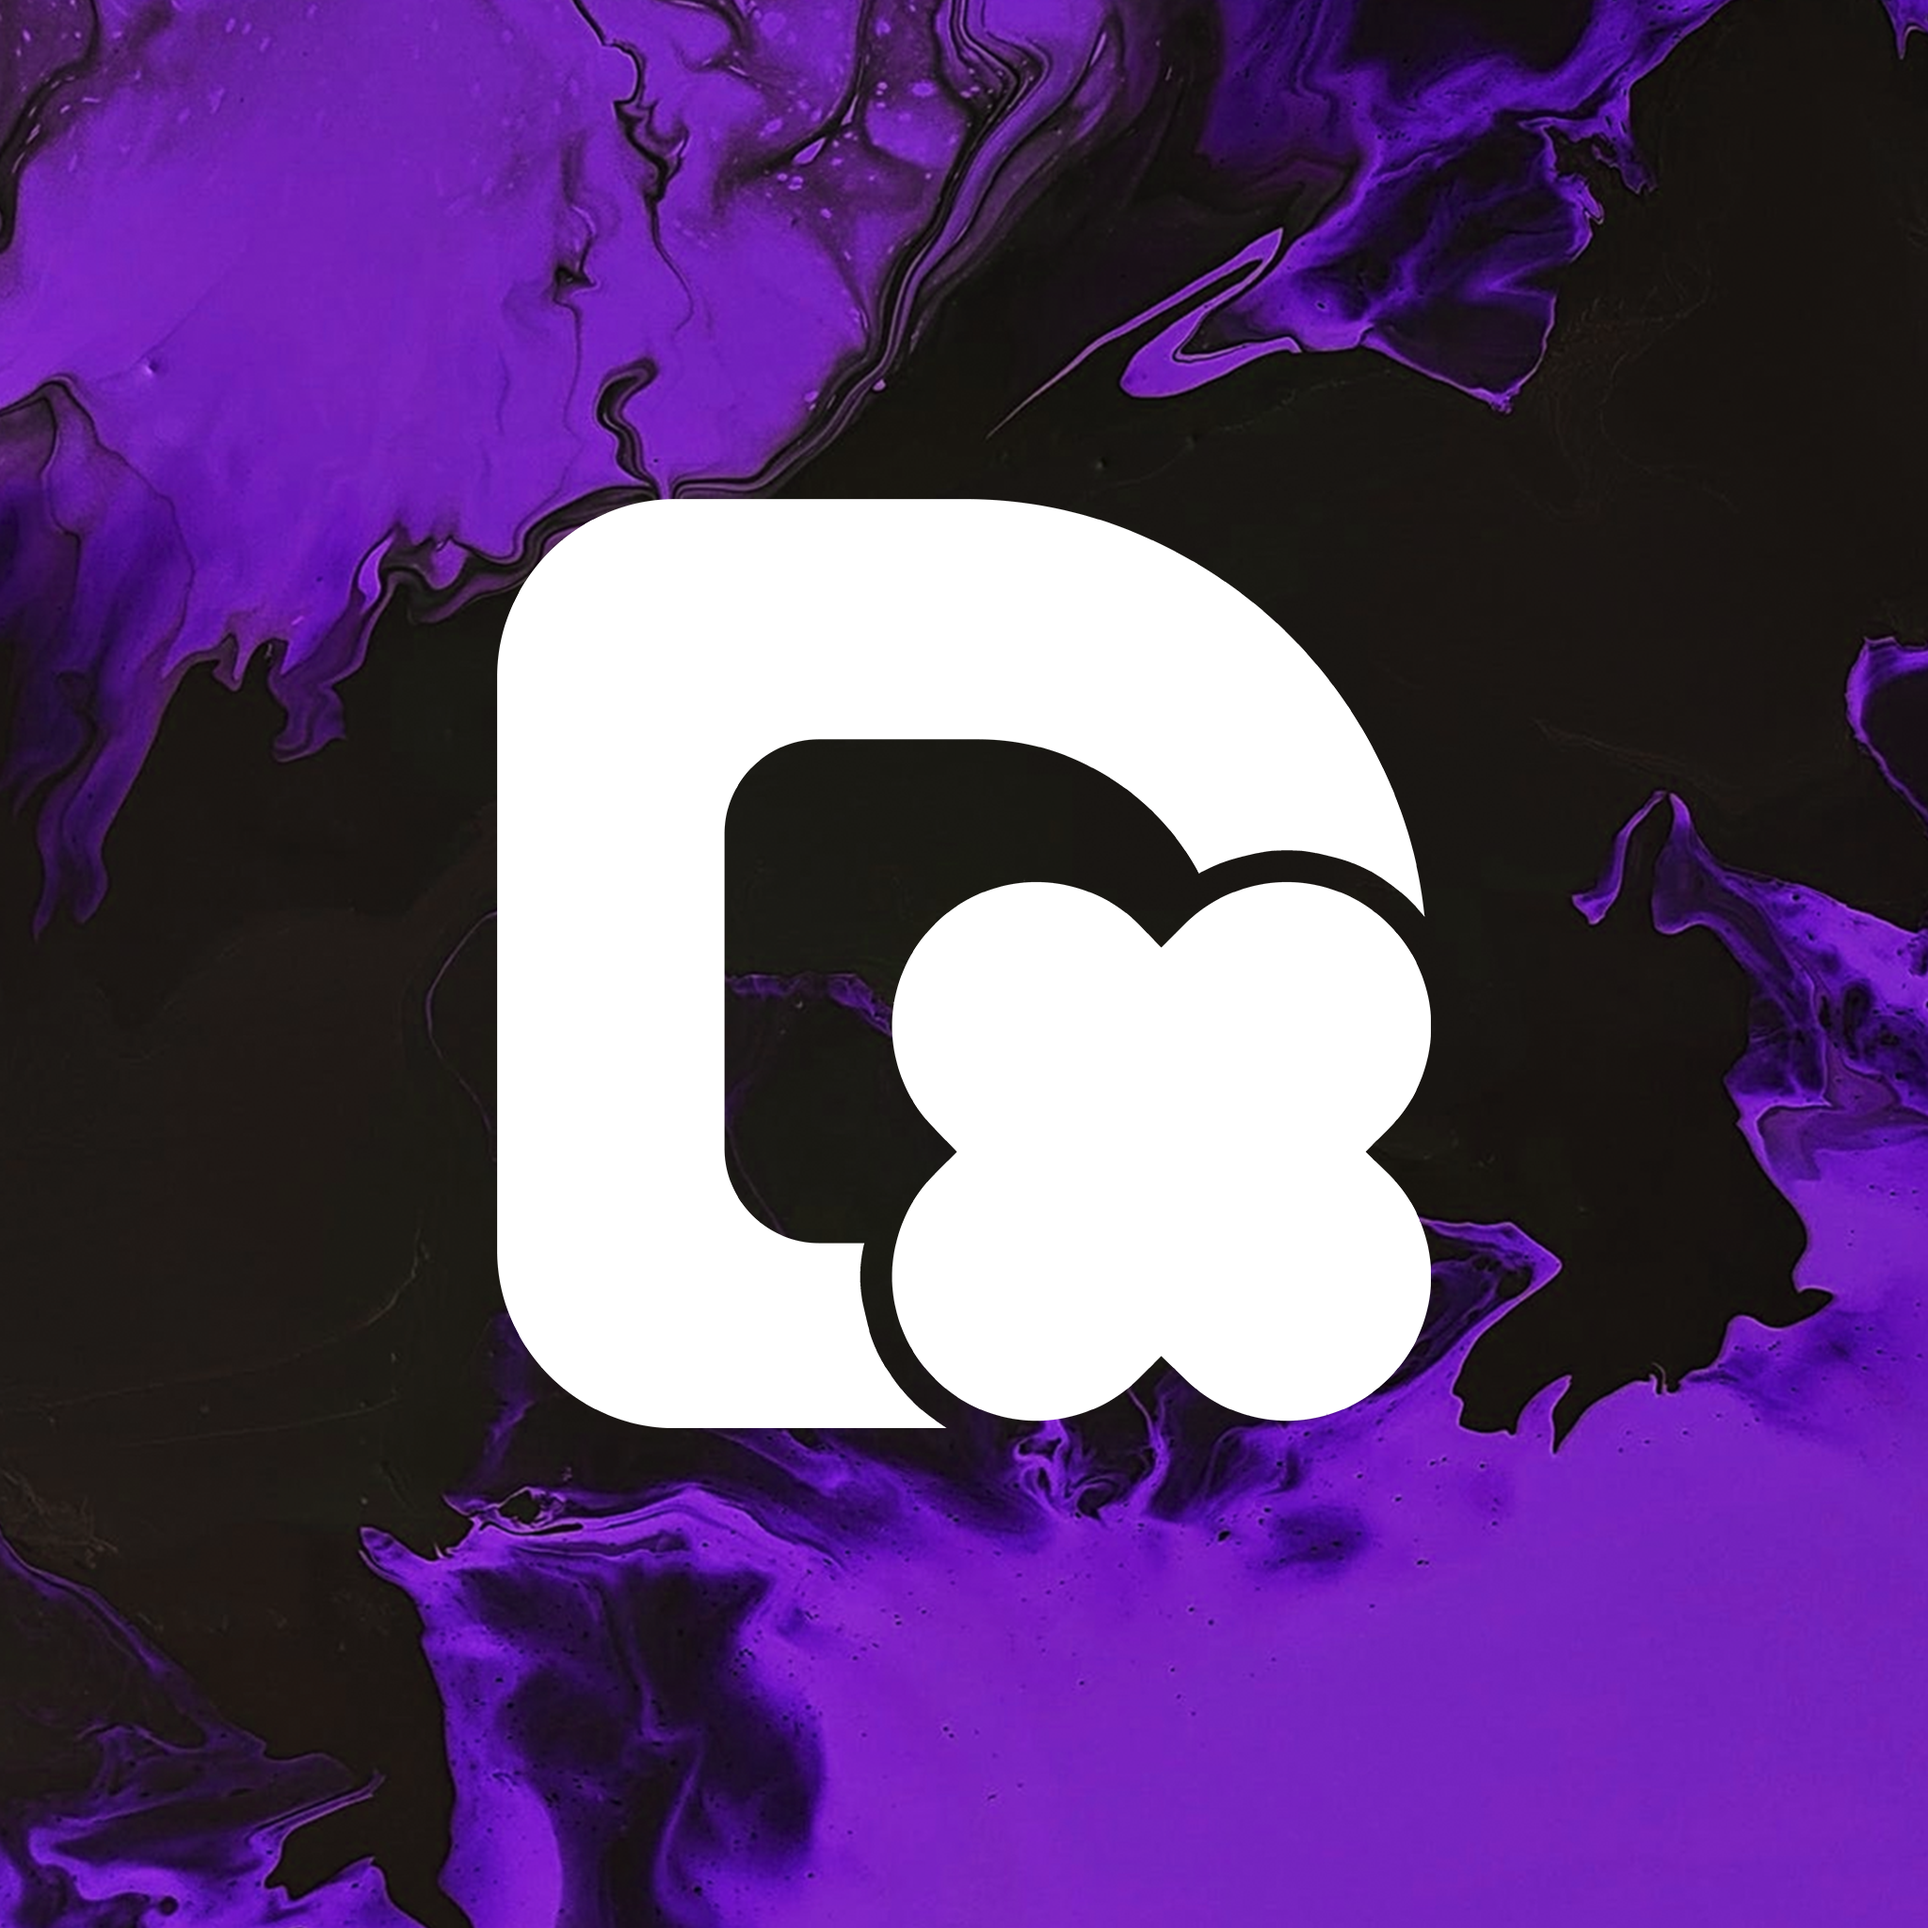
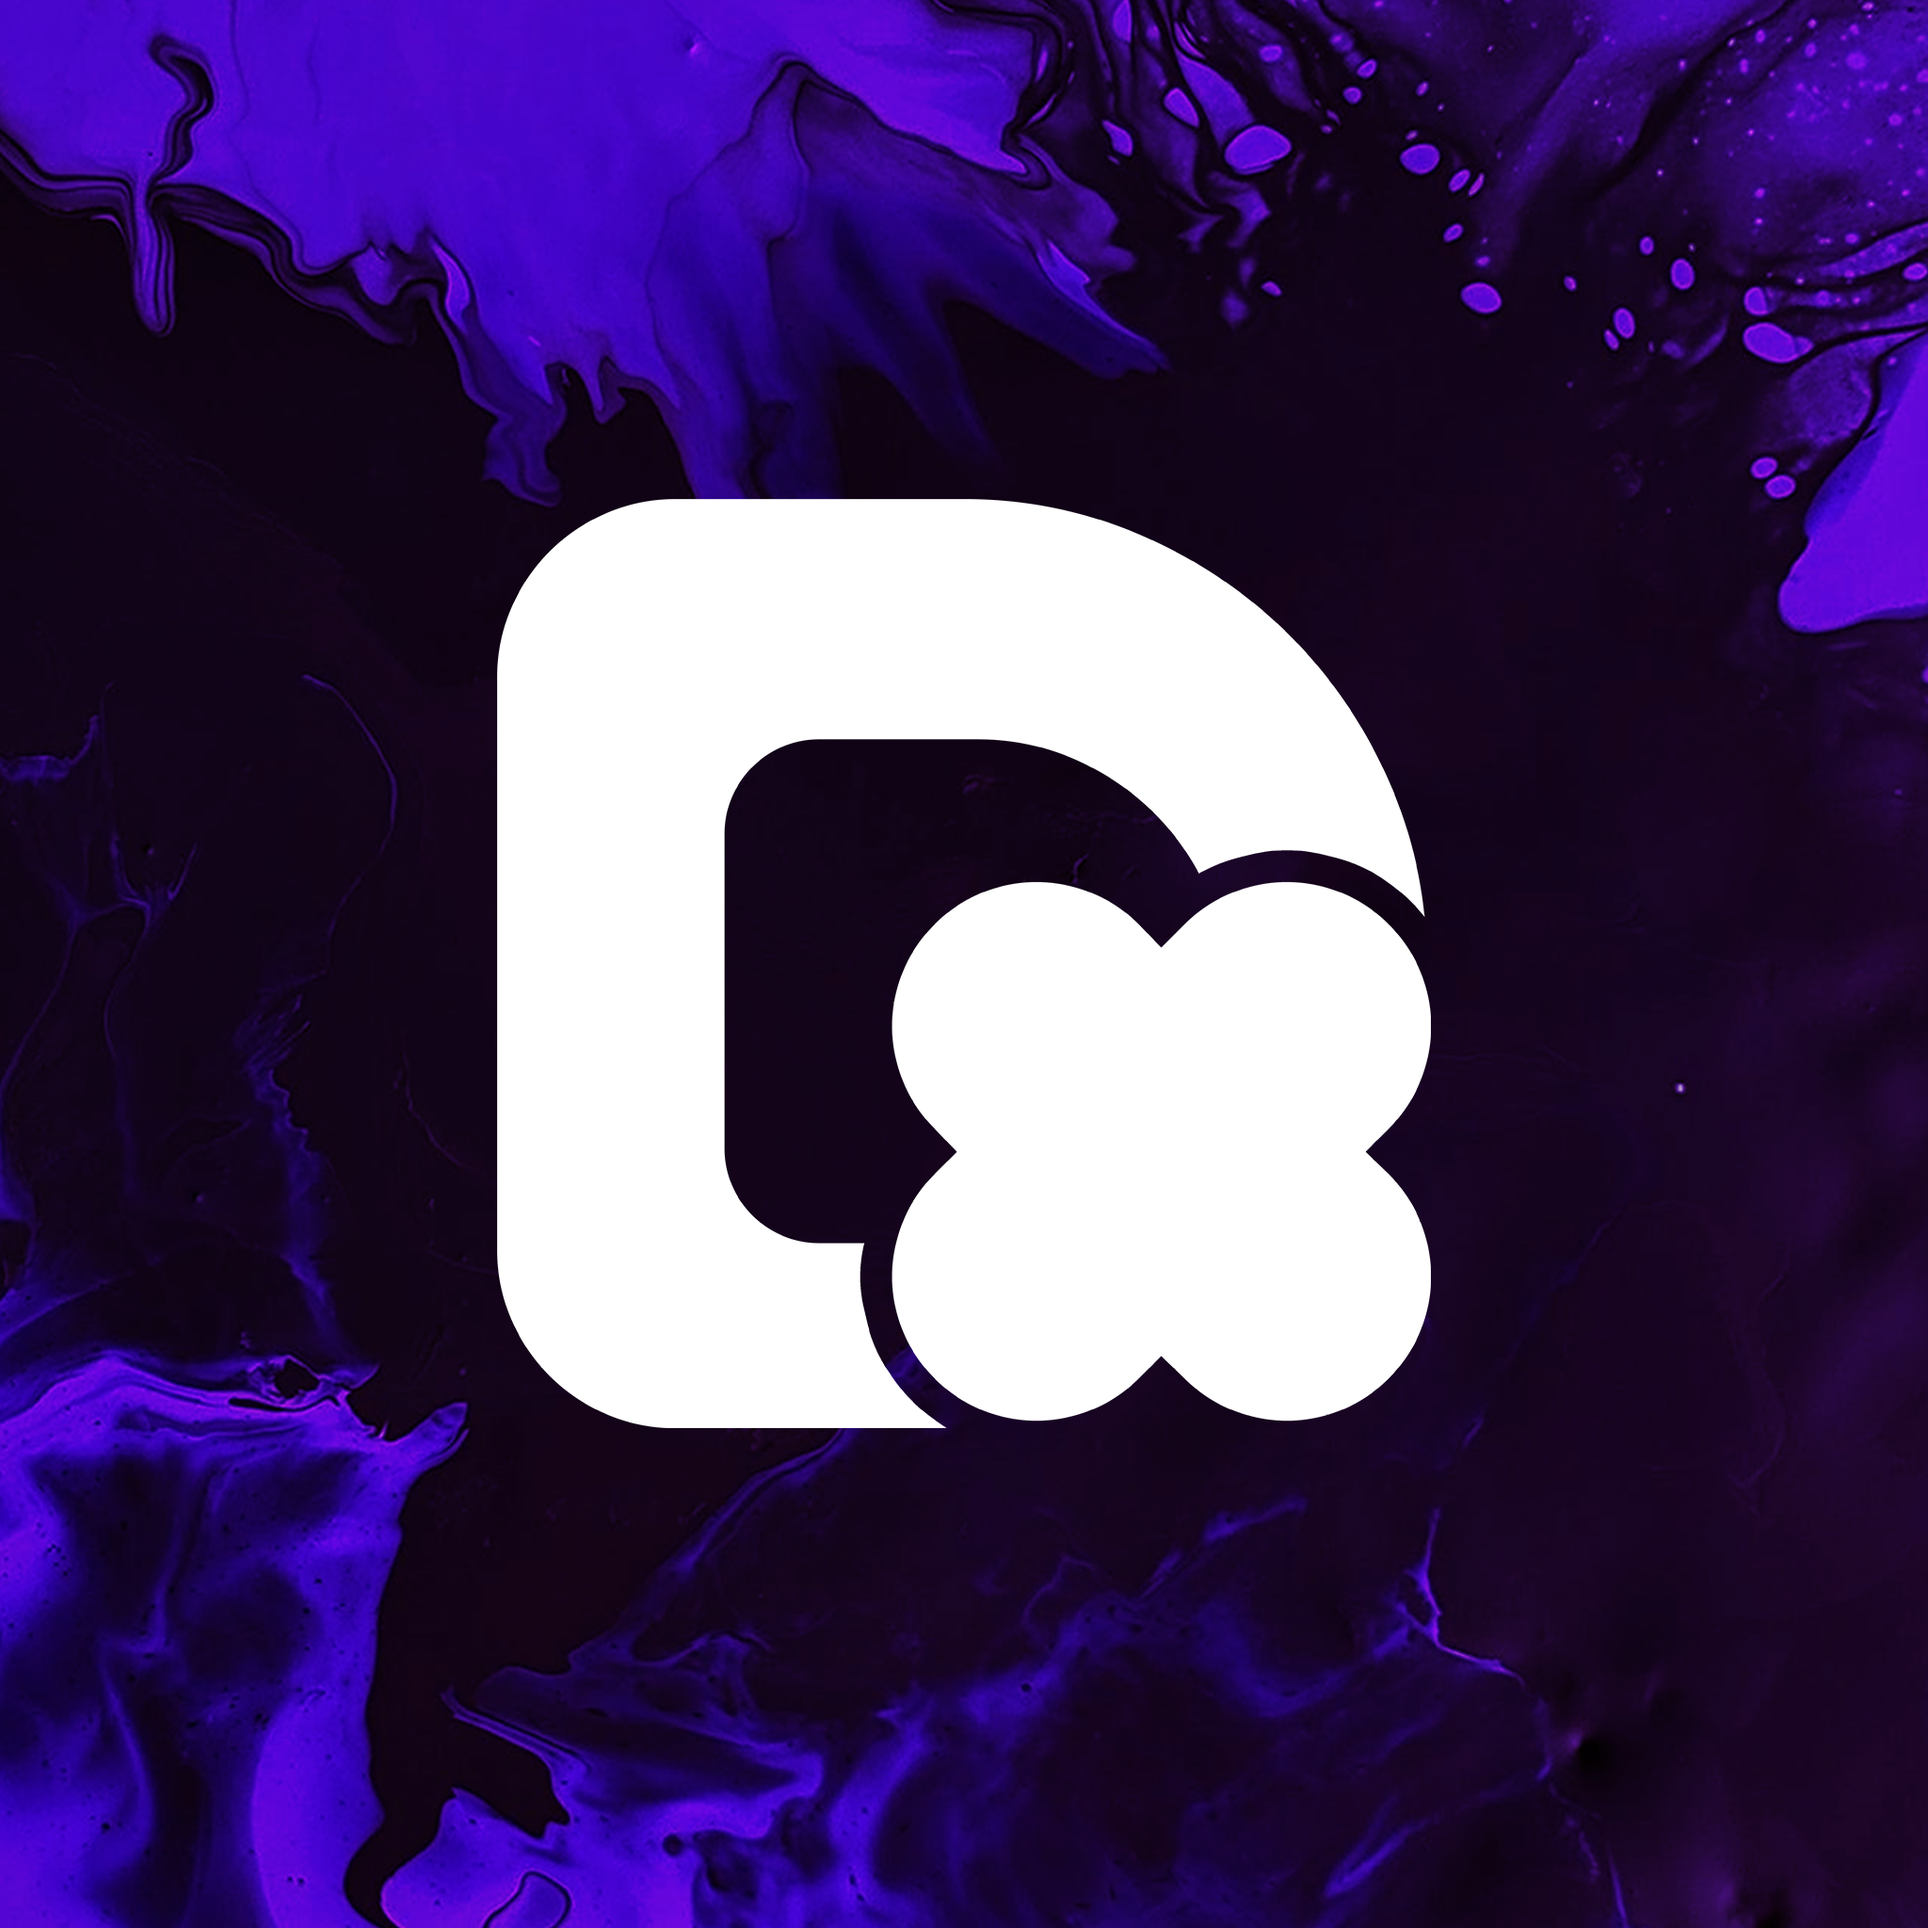
New brand color

diff --git a/index.html b/index.html
@@ -74,8 +74,8 @@
 				</div>
 			</div>
 			<div class="white-section has-text-centered">
-				<img src="img/lildtix.png">
-				<h1 class="title is-2 has-text-centered has-text-black">Cameron Dtix aka Clarky, You'll catch me in the Anvex server on Discord considering I own it, Discord link above. ;)</h1>
+				<img src="img/me.png">
+				<h1 class="title is-2 has-text-centered has-text-black">Cameron Dtix aka Clarky, You'll catch me in the <a href="https://discord.io/anvex" target="_blank" style="color:#4B0ECF;">Anvex Discord server</a> on Discord.</h1>
 		</div>
 		<footer class="footer animated fadeIn" style="padding: 0">
 			<p class="subtitle is-7 has-text-centered has-text-black" style="font-weight: bolder">Reach Me Via My Socials</p>

diff --git a/css/style.css b/css/style.css
@@ -70,7 +70,7 @@ a.navbar-item p {
 
 .background-section {
 	padding: 45px 0;
-	background: rgb(121, 25, 212);
+	background: rgb(75, 14, 207);
 	margin-top: 25px;
 }
 
@@ -198,7 +198,7 @@ a.navbar-item p {
 	margin: 0 5px;
 }
 .main-section .socials a:hover .fab {
-	color: rgb(121, 24, 212)
+	color: rgb(75, 14, 207)
 }
 .main-section .socials a .fab {
 	color: #fff;
